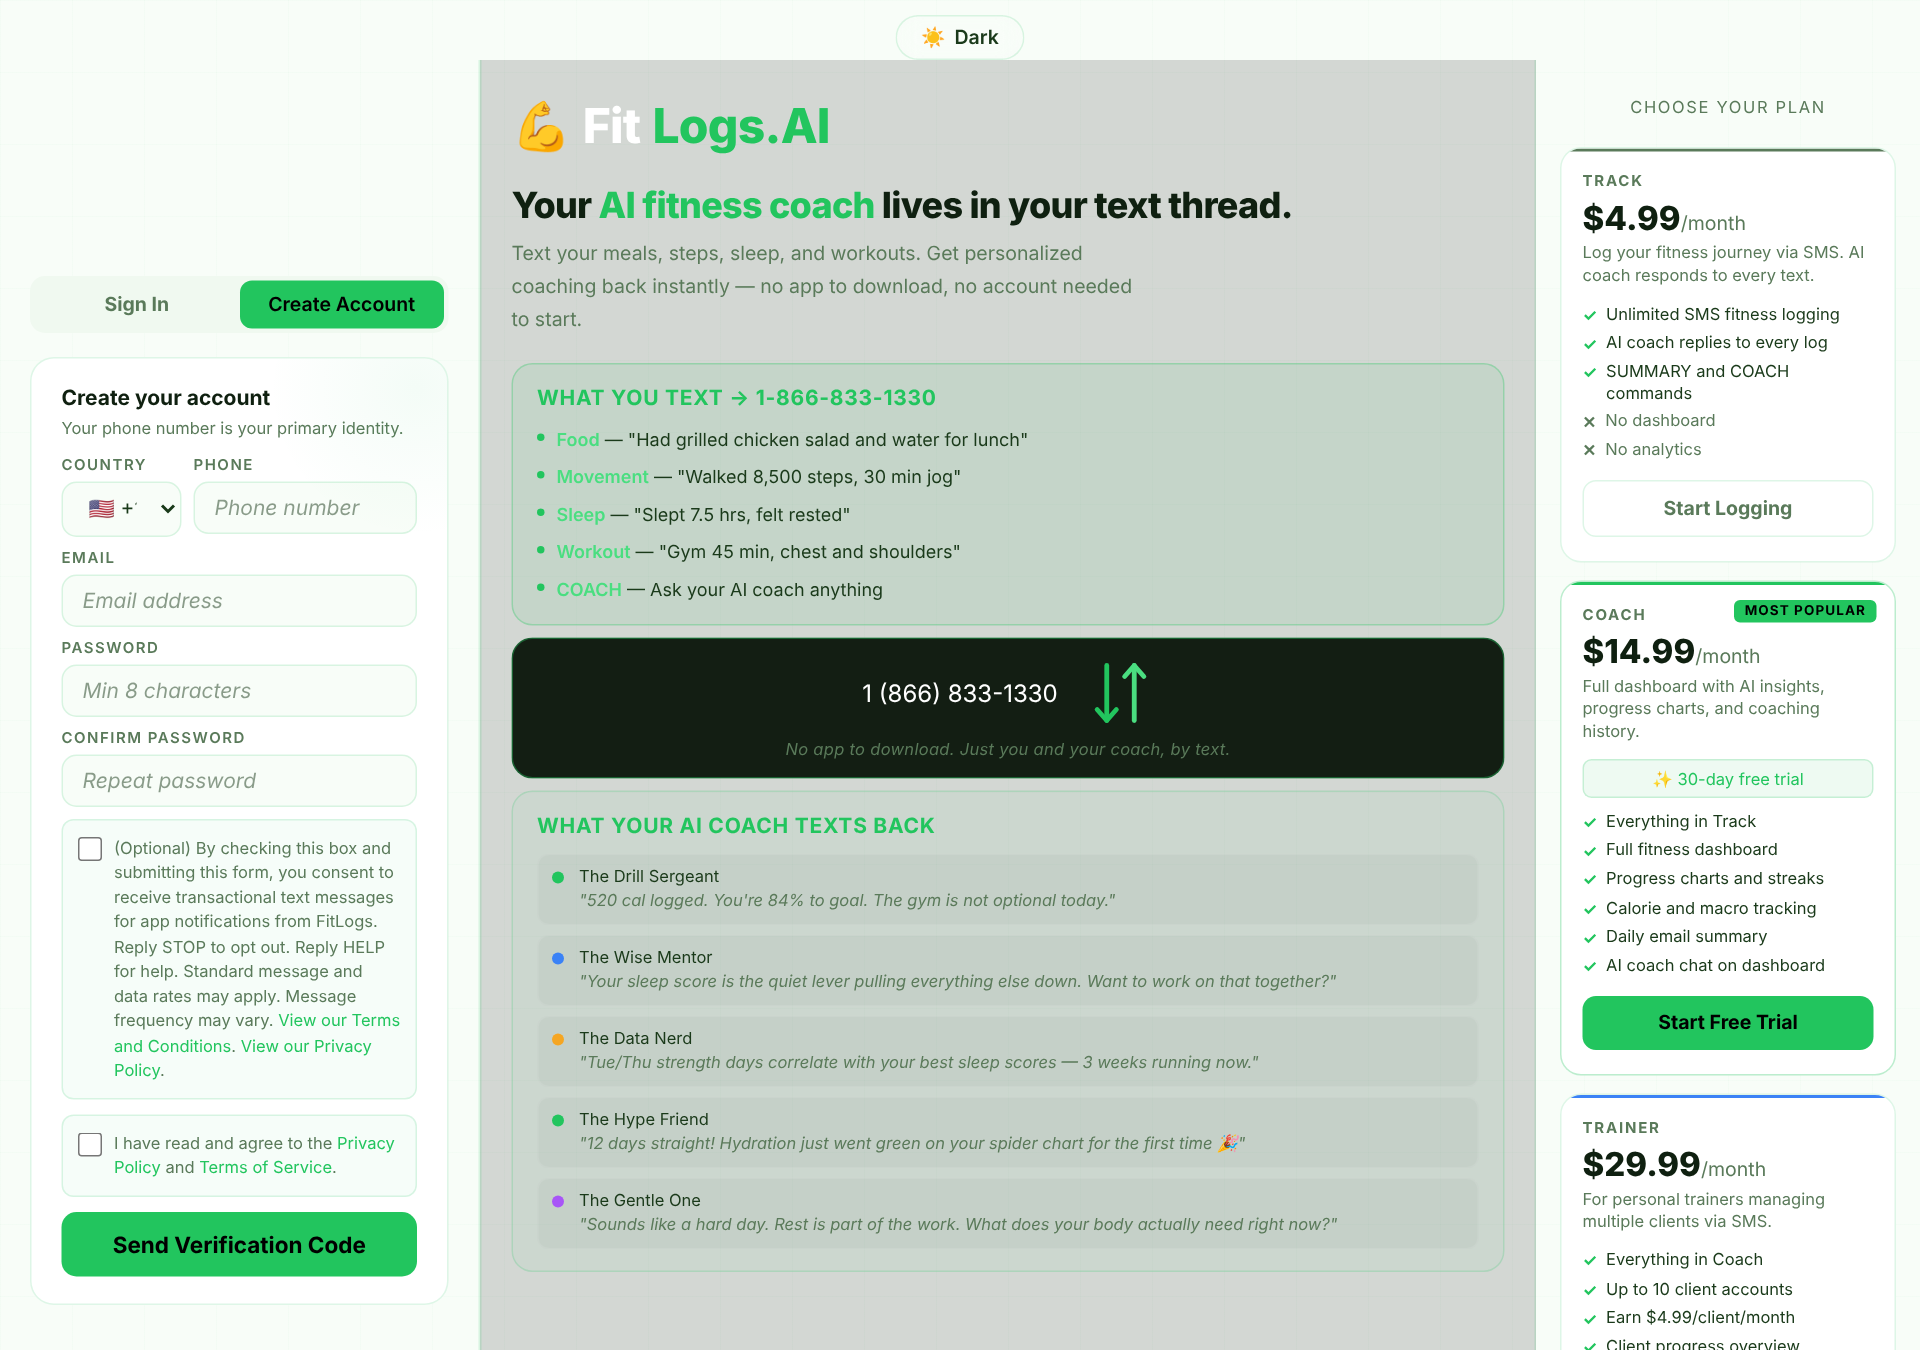
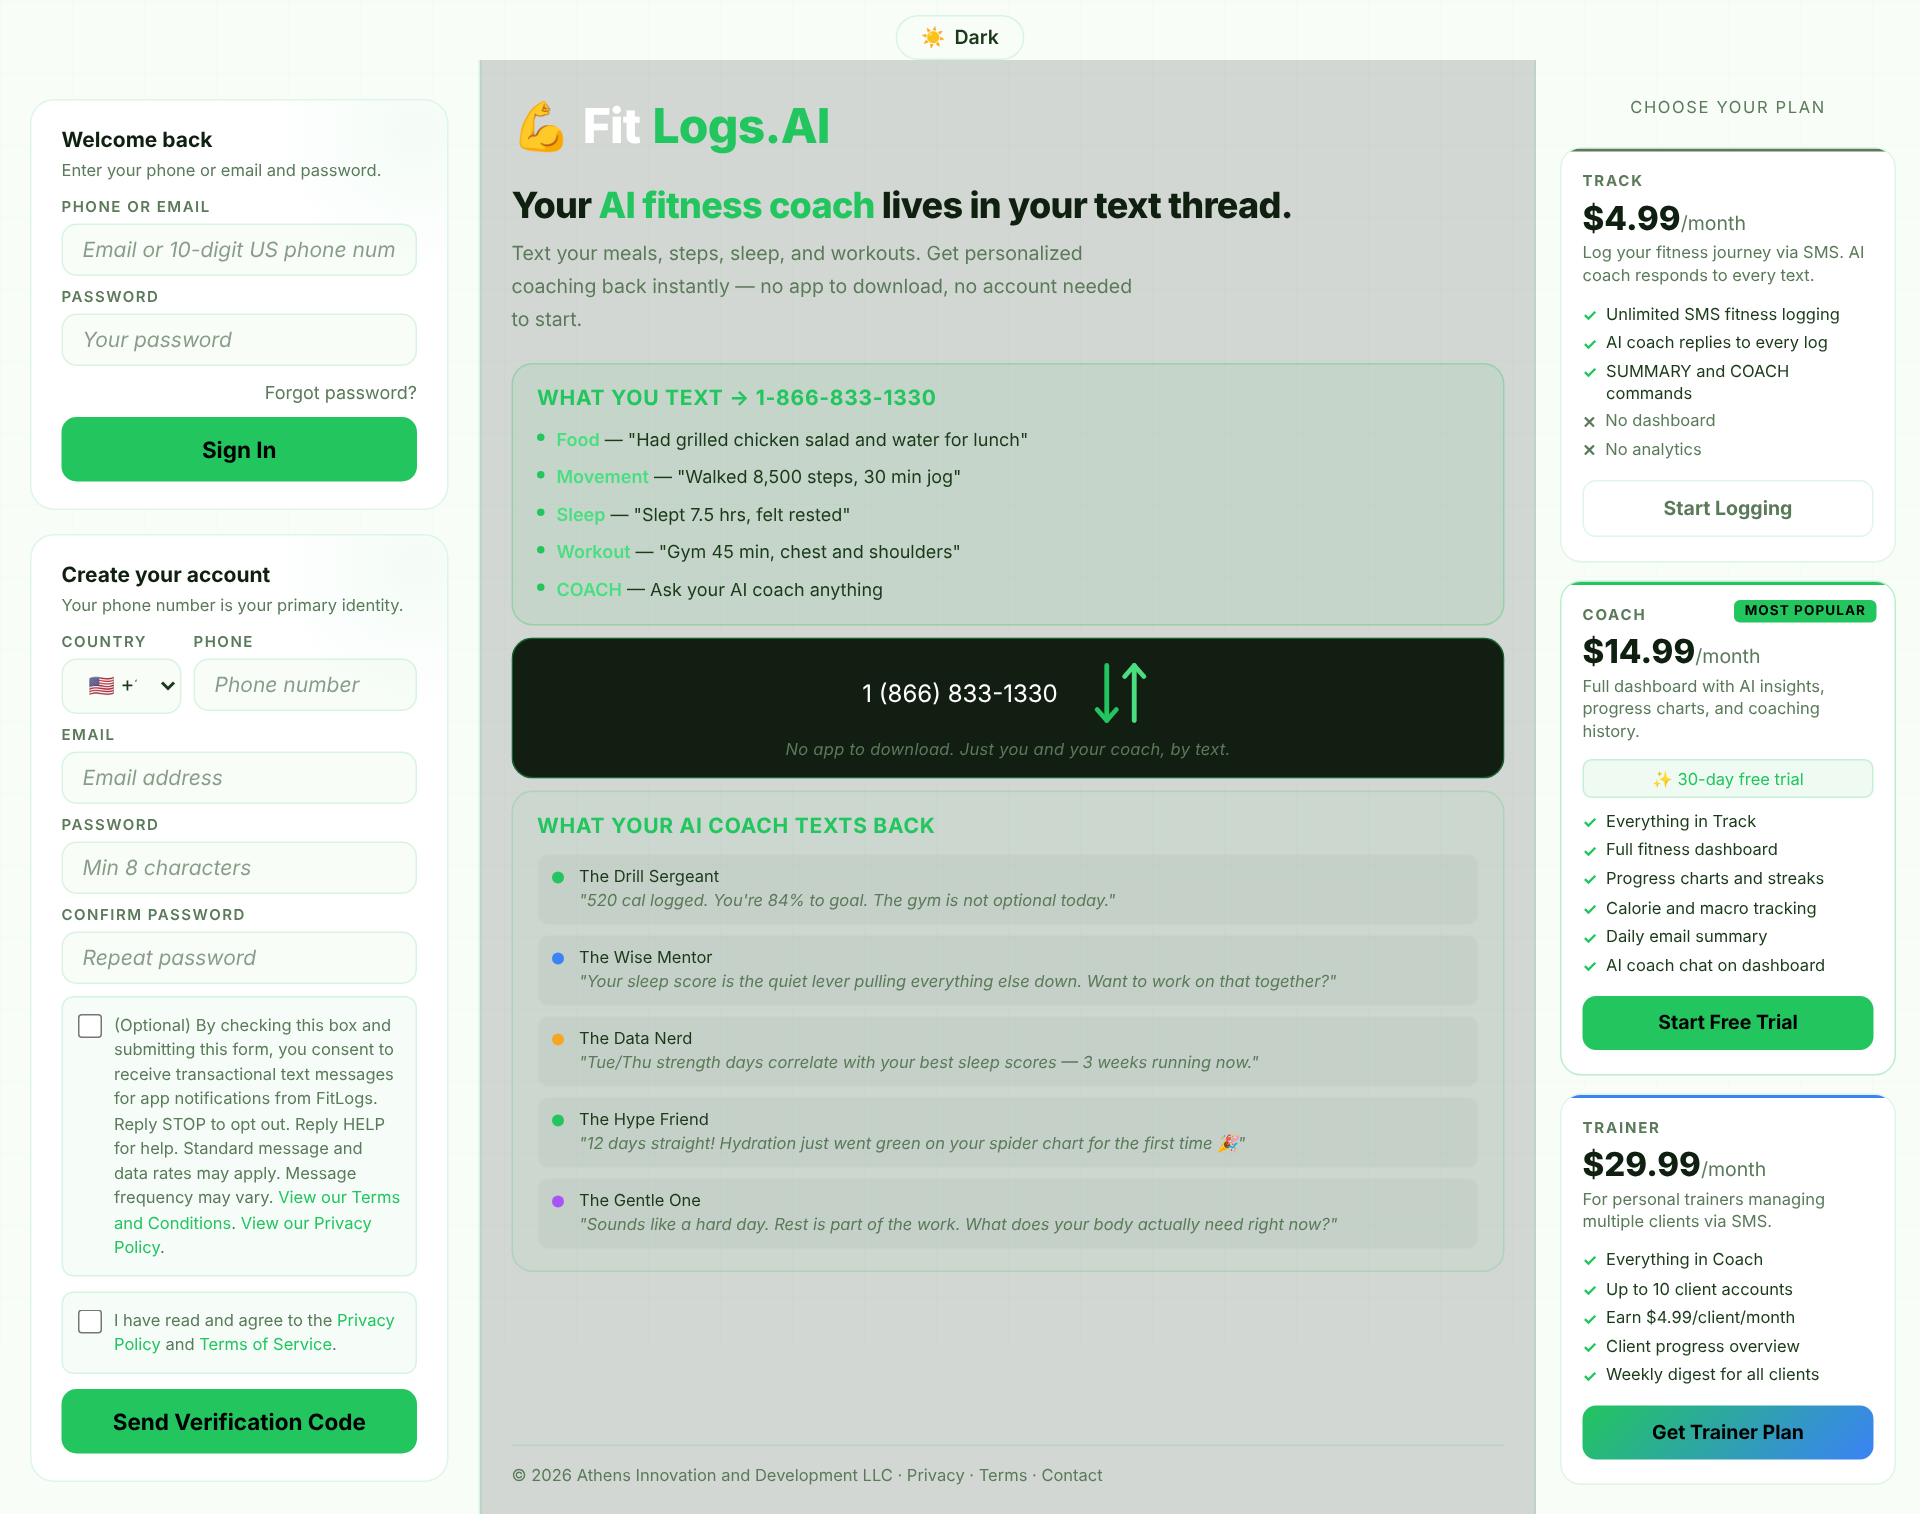
Show Sign In and Create Account as separate stacked cards
Removes the tab toggle. Sign In sits on top and Create Account below it,
both always visible. /opt-in scrolls to the Create Account card.
Retakes the opt-in screenshot to match the new layout.

Claude-Session: https://claude.ai/code/session_01YawCQ7EkQYAdTupEySMgQS

diff --git a/index.html b/index.html
@@ -468,16 +468,25 @@ mark{background:rgba(34,197,94,0.2);color:var(--green2);border-radius:2px;paddin
 </div>
 
 <!-- Auth column -->
-<div style="display:flex;flex-direction:column;justify-content:center;padding:24px 20px;overflow-y:auto;border-right:1px solid var(--border);order:1;">
+<div style="display:flex;flex-direction:column;justify-content:safe center;padding:24px 20px;overflow-y:auto;border-right:1px solid var(--border);order:1;">
 <div class="login-wrap">
-  <div style="display:flex;gap:0;margin-bottom:16px;background:var(--dark);border-radius:10px;padding:3px;">
-    <button id="tab-login" onclick="switchTab('login')" style="flex:1;padding:8px;border:none;border-radius:8px;background:var(--green);color:#000;font-family:var(--font);font-size:13px;font-weight:700;cursor:pointer;transition:all 0.18s;">Sign In</button>
-    <button id="tab-signup" onclick="switchTab('signup')" style="flex:1;padding:8px;border:none;border-radius:8px;background:transparent;color:var(--muted);font-family:var(--font);font-size:13px;font-weight:600;cursor:pointer;transition:all 0.18s;">Create Account</button>
+  <!-- Sign In -->
+  <div class="login-card" id="signin-card">
+    <div id="step-login">
+      <div style="font-size:14px;font-weight:700;color:var(--white);margin-bottom:4px;">Welcome back</div>
+      <div style="font-size:11px;color:var(--muted);margin-bottom:12px;">Enter your phone or email and password.</div>
+      <div class="field-wrap"><label class="f-label" for="login-id">Phone or Email</label><input class="f-input" id="login-id" type="text" placeholder="Email or 10-digit US phone number" autocomplete="off" aria-required="true"></div>
+      <div class="field-wrap"><label class="f-label" for="login-pw">Password</label><input class="f-input" id="login-pw" type="password" placeholder="Your password" autocomplete="current-password" onkeydown="if(event.key==='Enter')doLogin()" aria-required="true"></div>
+      <div class="forgot-link"><a onclick="doForgotPw()" aria-label="Reset your password">Forgot password?</a></div>
+      <div class="err-box" id="login-err" role="alert" aria-live="assertive"></div>
+      <div class="ok-box" id="login-ok" role="status" aria-live="polite"></div>
+      <button class="btn-safe" onclick="doLogin()" id="login-btn" style="margin-top:6px;width:100%;">Sign In</button>
+    </div>
   </div>
 
-  <div class="login-card">
-    <!-- Signup -->
-    <div id="step-signup" class="step">
+  <!-- Create Account (standalone, linked from /opt-in) -->
+  <div class="login-card" id="signup-card" style="margin-top:16px;scroll-margin-top:16px;">
+    <div id="step-signup">
       <div style="font-size:14px;font-weight:700;color:var(--white);margin-bottom:4px;">Create your account</div>
       <div style="font-size:11px;color:var(--muted);margin-bottom:12px;">Your phone number is your primary identity.</div>
       <div class="grid-cc">
@@ -518,18 +527,6 @@ mark{background:rgba(34,197,94,0.2);color:var(--green2);border-radius:2px;paddin
       <button class="btn-safe" id="signup-btn" onclick="sendOtp()" style="margin-top:10px;" aria-label="Send verification code">Send Verification Code</button>
       <div class="err-box" id="signup-err" role="alert" aria-live="assertive"></div>
       <div class="ok-box" id="signup-ok" role="status" aria-live="polite"></div>
-    </div>
-
-    <!-- Login -->
-    <div id="step-login" class="step active">
-      <div style="font-size:14px;font-weight:700;color:var(--white);margin-bottom:4px;">Welcome back</div>
-      <div style="font-size:11px;color:var(--muted);margin-bottom:12px;">Enter your phone or email and password.</div>
-      <div class="field-wrap"><label class="f-label" for="login-id">Phone or Email</label><input class="f-input" id="login-id" type="text" placeholder="Email or 10-digit US phone number" autocomplete="off" aria-required="true"></div>
-      <div class="field-wrap"><label class="f-label" for="login-pw">Password</label><input class="f-input" id="login-pw" type="password" placeholder="Your password" autocomplete="current-password" onkeydown="if(event.key==='Enter')doLogin()" aria-required="true"></div>
-      <div class="forgot-link"><a onclick="doForgotPw()" aria-label="Reset your password">Forgot password?</a></div>
-      <div class="err-box" id="login-err" role="alert" aria-live="assertive"></div>
-      <div class="ok-box" id="login-ok" role="status" aria-live="polite"></div>
-      <button class="btn-safe" onclick="doLogin()" id="login-btn" style="margin-top:6px;width:100%;">Sign In</button>
     </div>
   </div>
 </div>
@@ -1428,7 +1425,7 @@ window.verifySettingsOtp=async function(){
 
 // UTILS
 function showScreen(id){ document.querySelectorAll('.screen').forEach(s=>{ if(!s.closest('#sos-wrapper')){ s.classList.remove('active'); s.style.display='none'; } }); const candidates=document.querySelectorAll('#'+id); let el=null; candidates.forEach(c=>{ if(!c.closest('#sos-wrapper')) el=c; }); if(!el) el=document.getElementById(id); el.classList.add('active'); el.style.display=id==='login-screen'?'flex':'block'; }
-window.switchTab=function(tab){ const isSignup=tab==='signup',isLogin=tab==='login'; document.getElementById('step-signup').classList.toggle('active',isSignup); document.getElementById('step-login').classList.toggle('active',isLogin); const tS=document.getElementById('tab-signup'),tL=document.getElementById('tab-login'); tL.style.background=isLogin?'var(--green)':'transparent'; tL.style.color=isLogin?'#000':'var(--muted)'; tS.style.background=isSignup?'var(--green)':'transparent'; tS.style.color=isSignup?'#000':'var(--muted)'; };
+window.switchTab=function(tab){ if(tab==='signup'){ const c=document.getElementById('signup-card'); if(c){ c.scrollIntoView({behavior:'smooth',block:'start'}); const f=document.getElementById('su-phone'); if(f) setTimeout(()=>f.focus({preventScroll:true}),400); } } };
 function showErr(id,msg){ const e=document.getElementById(id); e.textContent=msg; e.classList.add('show'); }
 function showOk(id,msg){ const e=document.getElementById(id); e.textContent=msg; e.classList.add('show'); }
 function clearMsg(id){ const e=document.getElementById(id); e.textContent=''; e.classList.remove('show'); }
